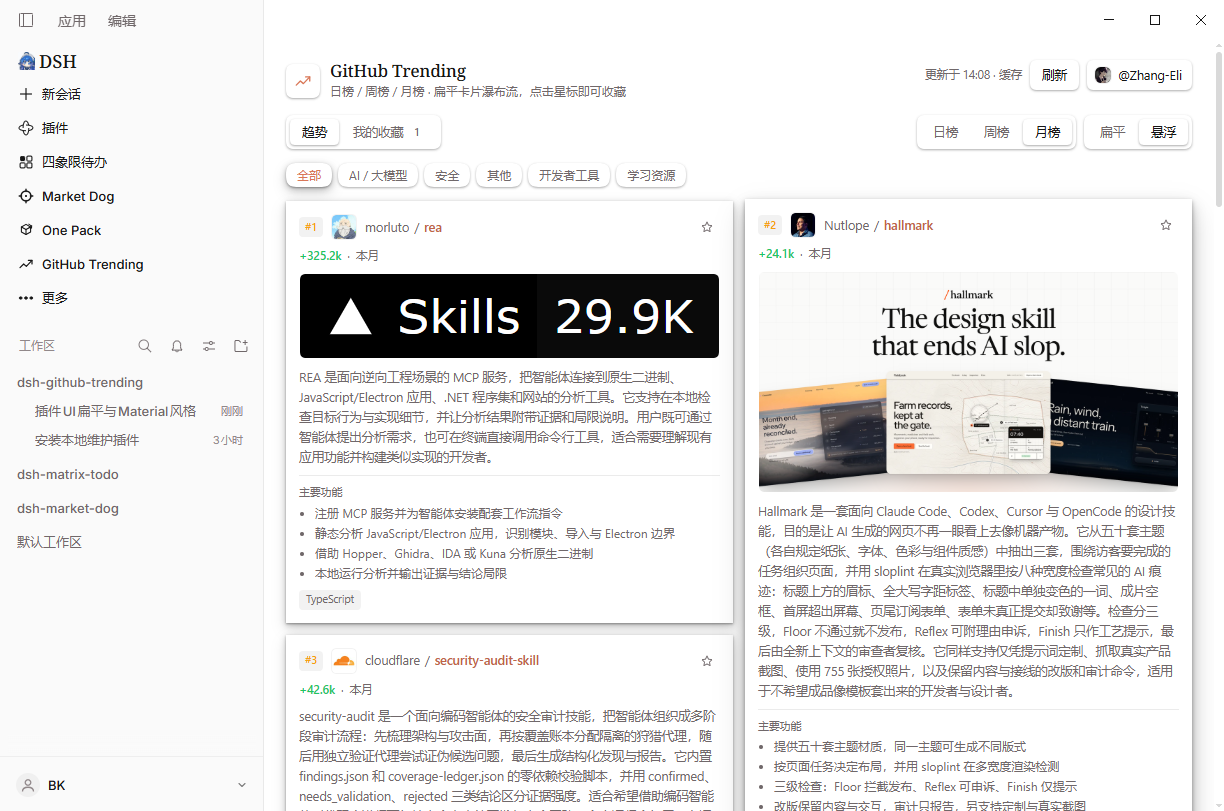
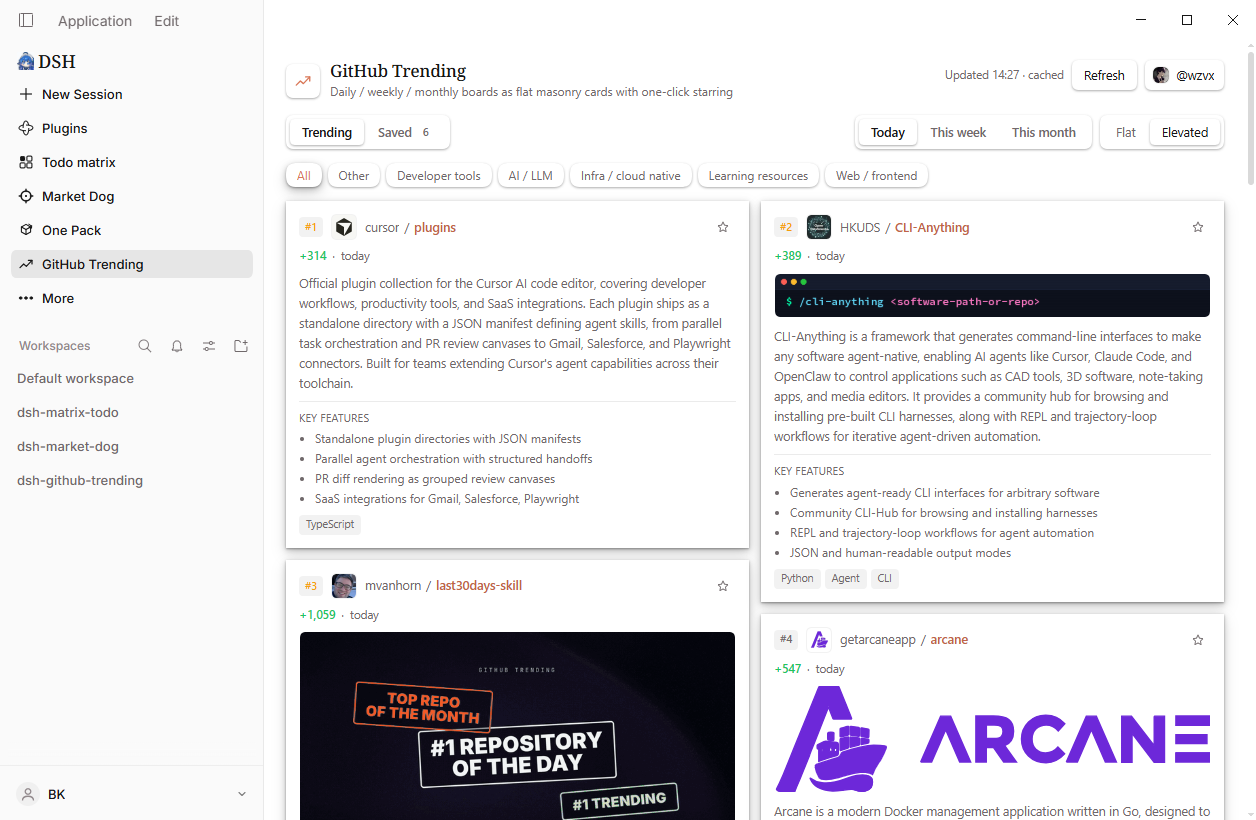
docs: refresh README screenshots (light/elevated + dark/flat) from current UI

diff --git a/README.md b/README.md
@@ -4,9 +4,9 @@
 
 Browse GitHub Trending's daily, weekly and monthly boards in a masonry layout, with one-click starring that syncs to GitHub.
 
-![The GitHub Trending panel in the DSH sidebar (flat style)](assets/screenshot-1.png)
+![The GitHub Trending panel in the DSH sidebar — light theme with the elevated Material style](assets/screenshot-1.png)
 
-![The same panel in the elevated Material style — cards and controls float on layered shadows](assets/screenshot-2.png)
+![The same panel in dark theme, flat style — cards sit flush on the background with hairline borders](assets/screenshot-2.png)
 
 ## What it does
 

diff --git a/README.zh.md b/README.zh.md
@@ -4,9 +4,9 @@
 
 用瀑布流浏览 GitHub Trending 的 日/周/月 榜单，支持一键Star并同步到GitHub。
 
-![DSH 侧栏中的 GitHub Trending 面板（扁平风格）](assets/screenshot-1.png)
+![DSH 侧栏中的 GitHub Trending 面板（浅色主题 · 悬浮 Material 风格）](assets/screenshot-1.png)
 
-![悬浮风格——卡片与控件以 Material 阴影浮于背景之上](assets/screenshot-2.png)
+![深色主题 · 扁平风格——卡片以细边框贴合背景](assets/screenshot-2.png)
 
 ## 功能
 
